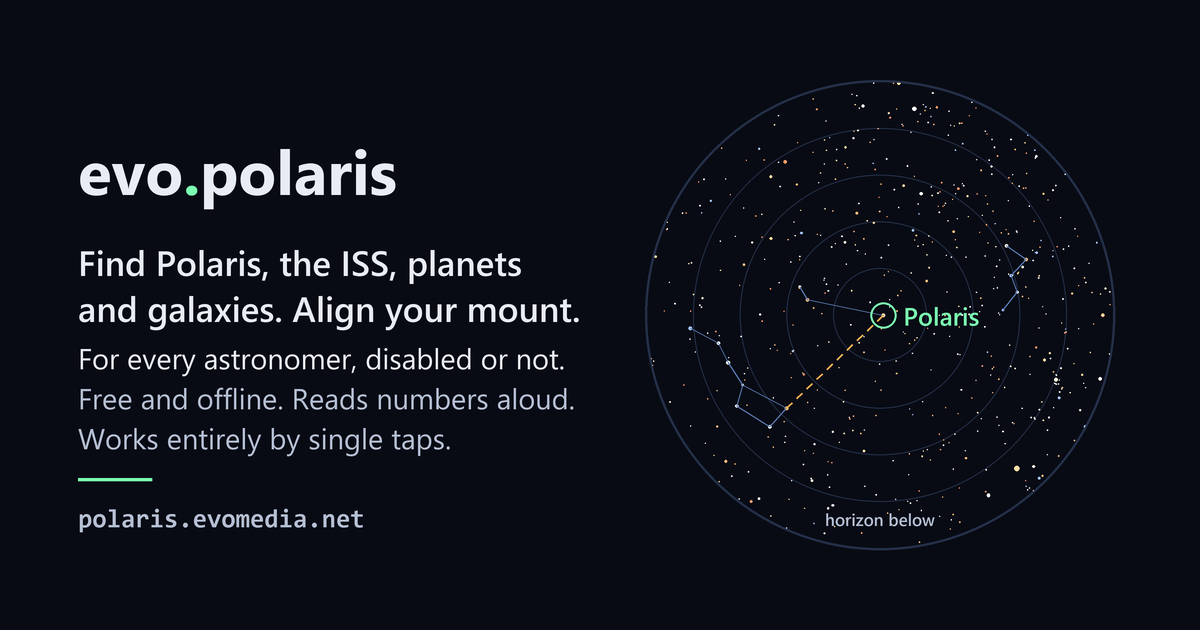
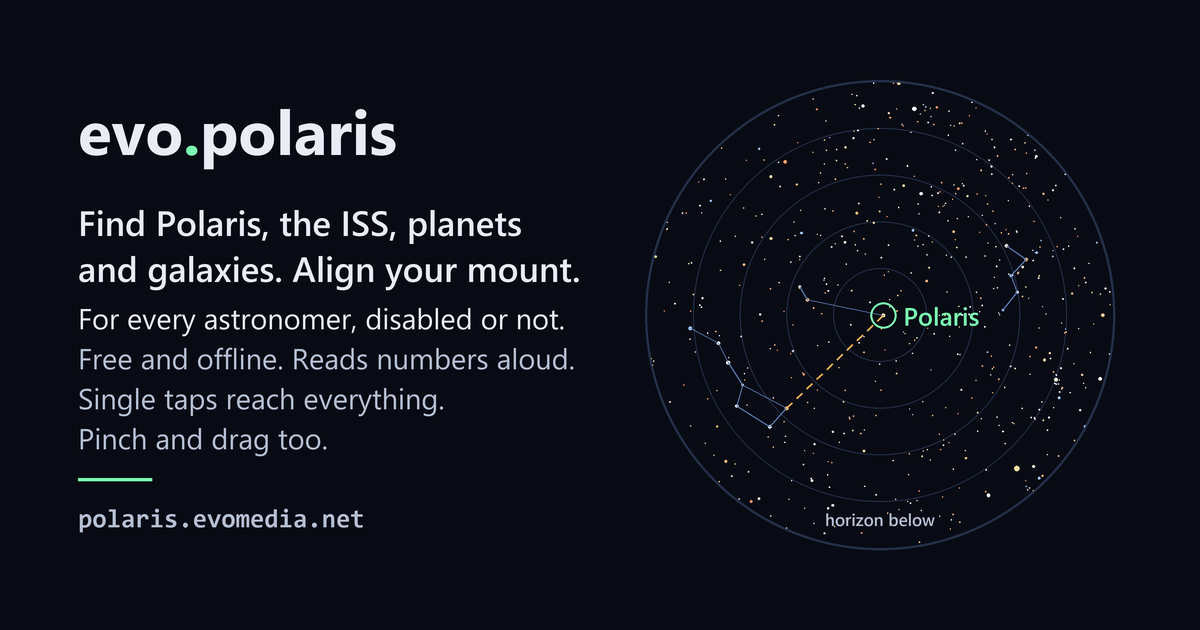
feat(site): link card says single taps reach everything, and pinch and drag too (#291)
Kelly, on the card's "Works entirely by single taps.": "...and multi-touch,
or whatever the correct two finger usage is called". Pinch is the name
people know; "entirely by single taps" read as "no gestures", and since
#290 the sky pinches as well as drags. The card now says the README's own
rule in its own words: "Single taps reach everything. / Pinch and drag
too." -- the tap-drag test checks both are README claims.

One line ran into the chart, so it is two, and the whole text block moved
up 40px to keep clear of the accent rule; the text now spans the chart's
own height. The card's URL moves to ?v=7 so link scrapers fetch the new
image.

Refs #289

Changed region(s): [[0.0617, 0.181, 0.4933, 0.7238]]

diff --git a/site/index.html b/site/index.html
@@ -20,7 +20,7 @@
 <meta property="og:title" content="evo.polaris — accessible night-sky guide and polar alignment">
 <meta property="og:description" content="Free, accessible night-sky guide and polar alignment: one tap finds Polaris, the ISS, the planets, constellations and galaxies. Made for every astronomer, including astronomers with physical disabilities, limited fine motor control or low vision — by a disabled astronomer.">
 <meta property="og:url" content="https://polaris.evomedia.net/">
-<meta property="og:image" content="https://polaris.evomedia.net/og-card.png?v=6">
+<meta property="og:image" content="https://polaris.evomedia.net/og-card.png?v=7">
 <meta property="og:image:type" content="image/png">
 <meta property="og:image:width" content="1200">
 <meta property="og:image:height" content="630">
@@ -28,7 +28,7 @@
 <meta name="twitter:card" content="summary_large_image">
 <meta name="twitter:title" content="evo.polaris — accessible night-sky guide and polar alignment">
 <meta name="twitter:description" content="Free, accessible night-sky guide and polar alignment: one tap finds Polaris, the ISS, the planets, constellations and galaxies. Made for every astronomer, including astronomers with physical disabilities, limited fine motor control or low vision — by a disabled astronomer.">
-<meta name="twitter:image" content="https://polaris.evomedia.net/og-card.png?v=6">
+<meta name="twitter:image" content="https://polaris.evomedia.net/og-card.png?v=7">
 <meta name="twitter:image:alt" content="The evo.polaris sky chart: Polaris circled at the pole, with the Big Dipper's pointer stars aimed at it.">
 
 <link rel="icon" href="src/data/icon.svg" type="image/svg+xml">

diff --git a/site/sw.js b/site/sw.js
@@ -21,7 +21,7 @@
 //
 // This is a CACHE KEY, not the release stamp. build-version.json stays where
 // it is; the build advances once per release on the default branch.
-const VERSION = '0.0.1.0.72';
+const VERSION = '0.0.1.0.73';
 const CACHE = `evo-polaris-${VERSION}`;
 
 const ASSETS = [

diff --git a/scripts/make_og_card.py b/scripts/make_og_card.py
@@ -107,9 +107,15 @@ HEADLINE = ["Find Polaris, the ISS, planets", "and galaxies. Align your mount."]
 # disabilities", which a reader without one takes as "not for me" and scrolls
 # past. Kelly: made for all astronomers, worded so people without a disability
 # do not pass it over on first read.
+#
+# TAPS DO EVERYTHING; THE GESTURES ARE THERE TOO (#289). "Works entirely by
+# single taps" read as "no gestures", and the app now pinches as well as drags:
+# Kelly asked for "...and multi-touch". The README's own rule, in its own
+# words: single taps reach everything, and pinch and drag are shortcuts.
 PARAGRAPH = ["For every astronomer, disabled or not.",
              "Free and offline. Reads numbers aloud.",
-             "Works entirely by single taps."]
+             "Single taps reach everything.",
+             "Pinch and drag too."]
 DOMAIN = "polaris.evomedia.net"
 
 
@@ -217,7 +223,7 @@ def build(shot: Path | None = None) -> Image.Image:
 
     # Wordmark, with the dot in the accent colour exactly as the page's <h1>.
     f_title = font(SANS_BOLD, 62 * SS)
-    x, y = PAD * SS, 128 * SS
+    x, y = PAD * SS, 88 * SS
     draw.text((x, y), "evo", font=f_title, fill=INK)
     x += draw.textlength("evo", font=f_title)
     draw.text((x, y), ".", font=f_title, fill=ACCENT)
@@ -225,15 +231,16 @@ def build(shot: Path | None = None) -> Image.Image:
     draw.text((x, y), "polaris", font=f_title, fill=INK)
 
     f_head = font(SANS_SEMIBOLD, 35 * SS)
-    y = 238 * SS
+    y = 198 * SS
     for line in HEADLINE:
         draw.text((PAD * SS, y), line, font=f_head, fill=INK)
         y += 46 * SS
 
-    # Three lines now rather than two, so the block starts higher: 338 + three
-    # 40s ends at 458, which still clears the accent rule at 478.
+    # Four lines now (#289), so the whole block -- wordmark, headline and
+    # paragraph -- moved up 40: 298 + four 40s ends at 458, which still clears
+    # the accent rule at 478, and the text now spans the chart's own height.
     f_para = font(SANS, 29 * SS)
-    y = 338 * SS
+    y = 298 * SS
     for index, line in enumerate(PARAGRAPH):
         draw.text((PAD * SS, y), line, font=f_para,
                   fill=INK if index == 0 else DIM)
